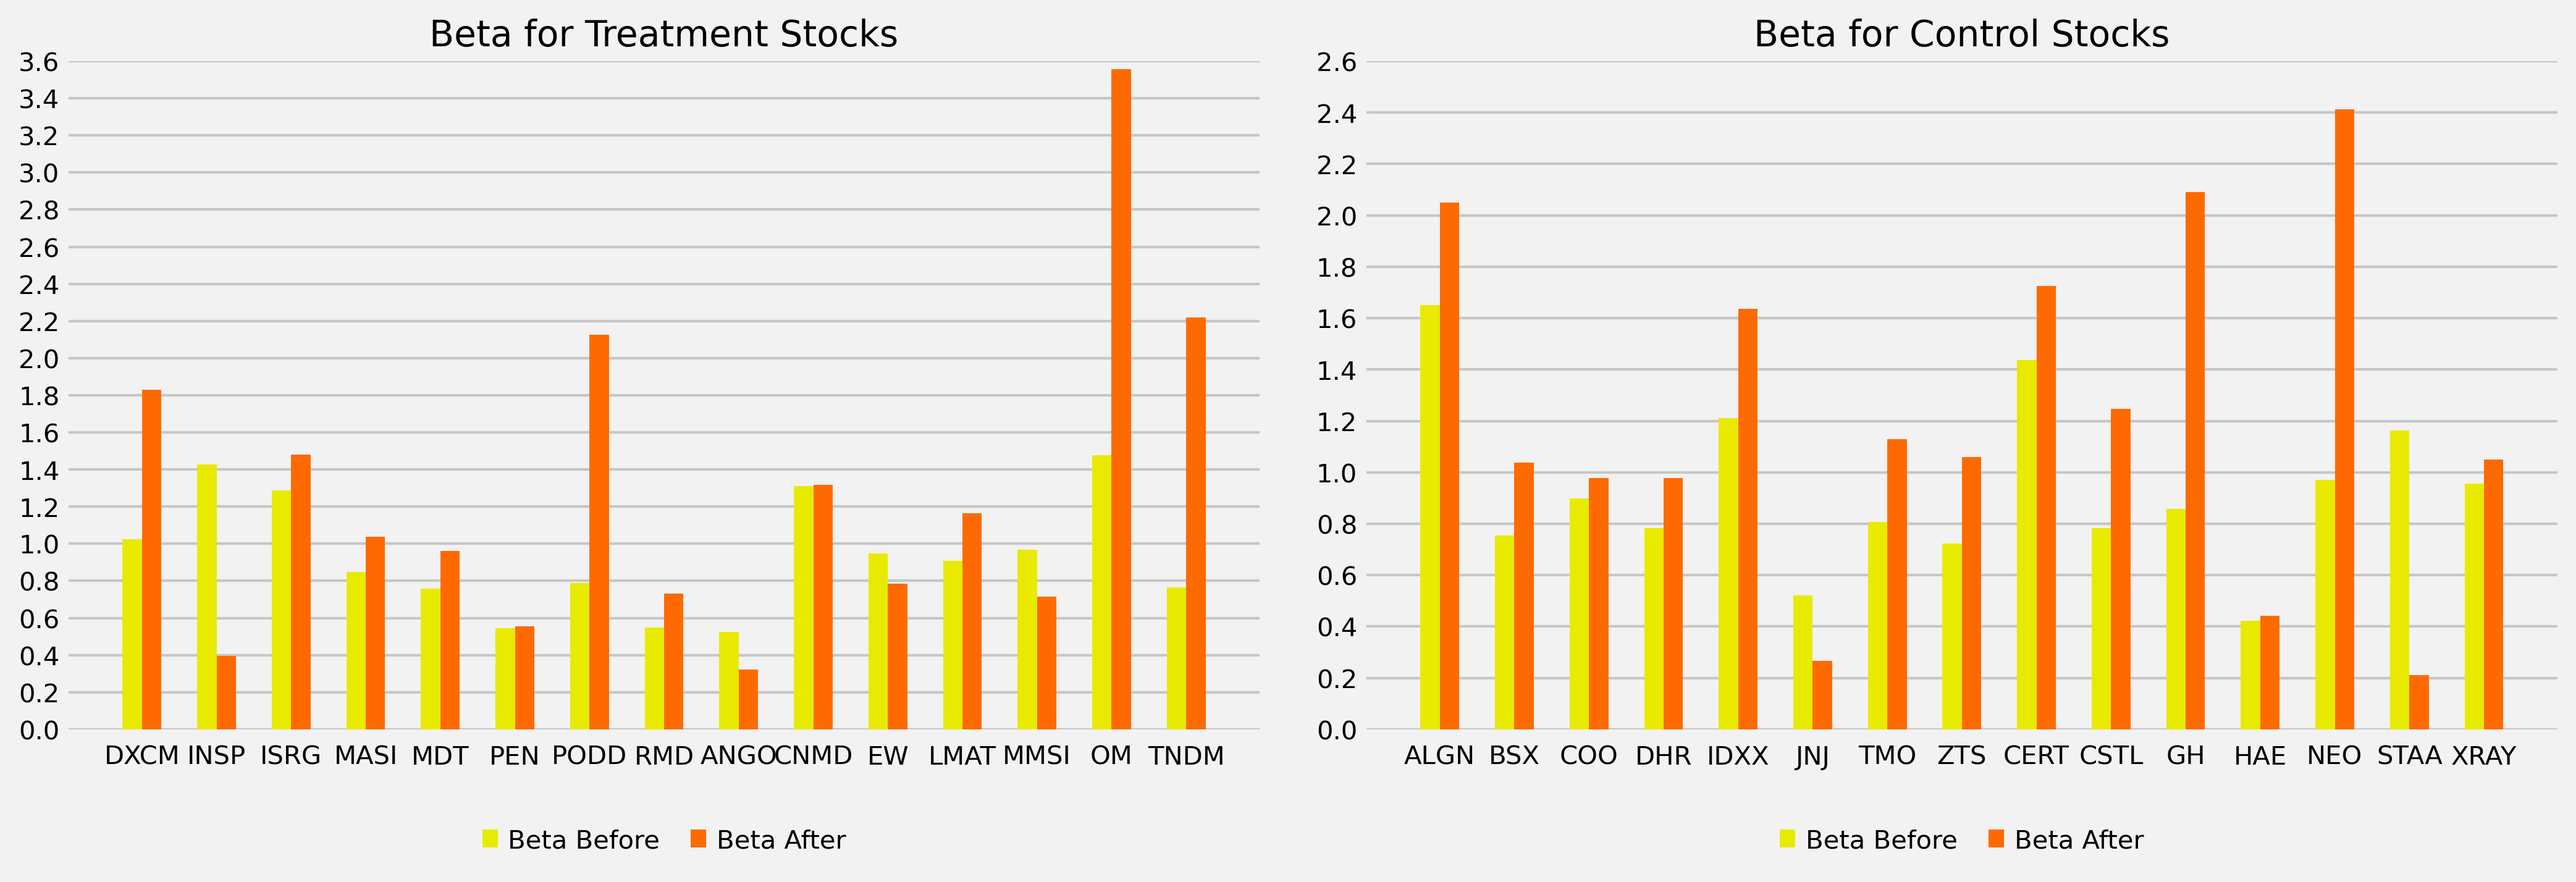
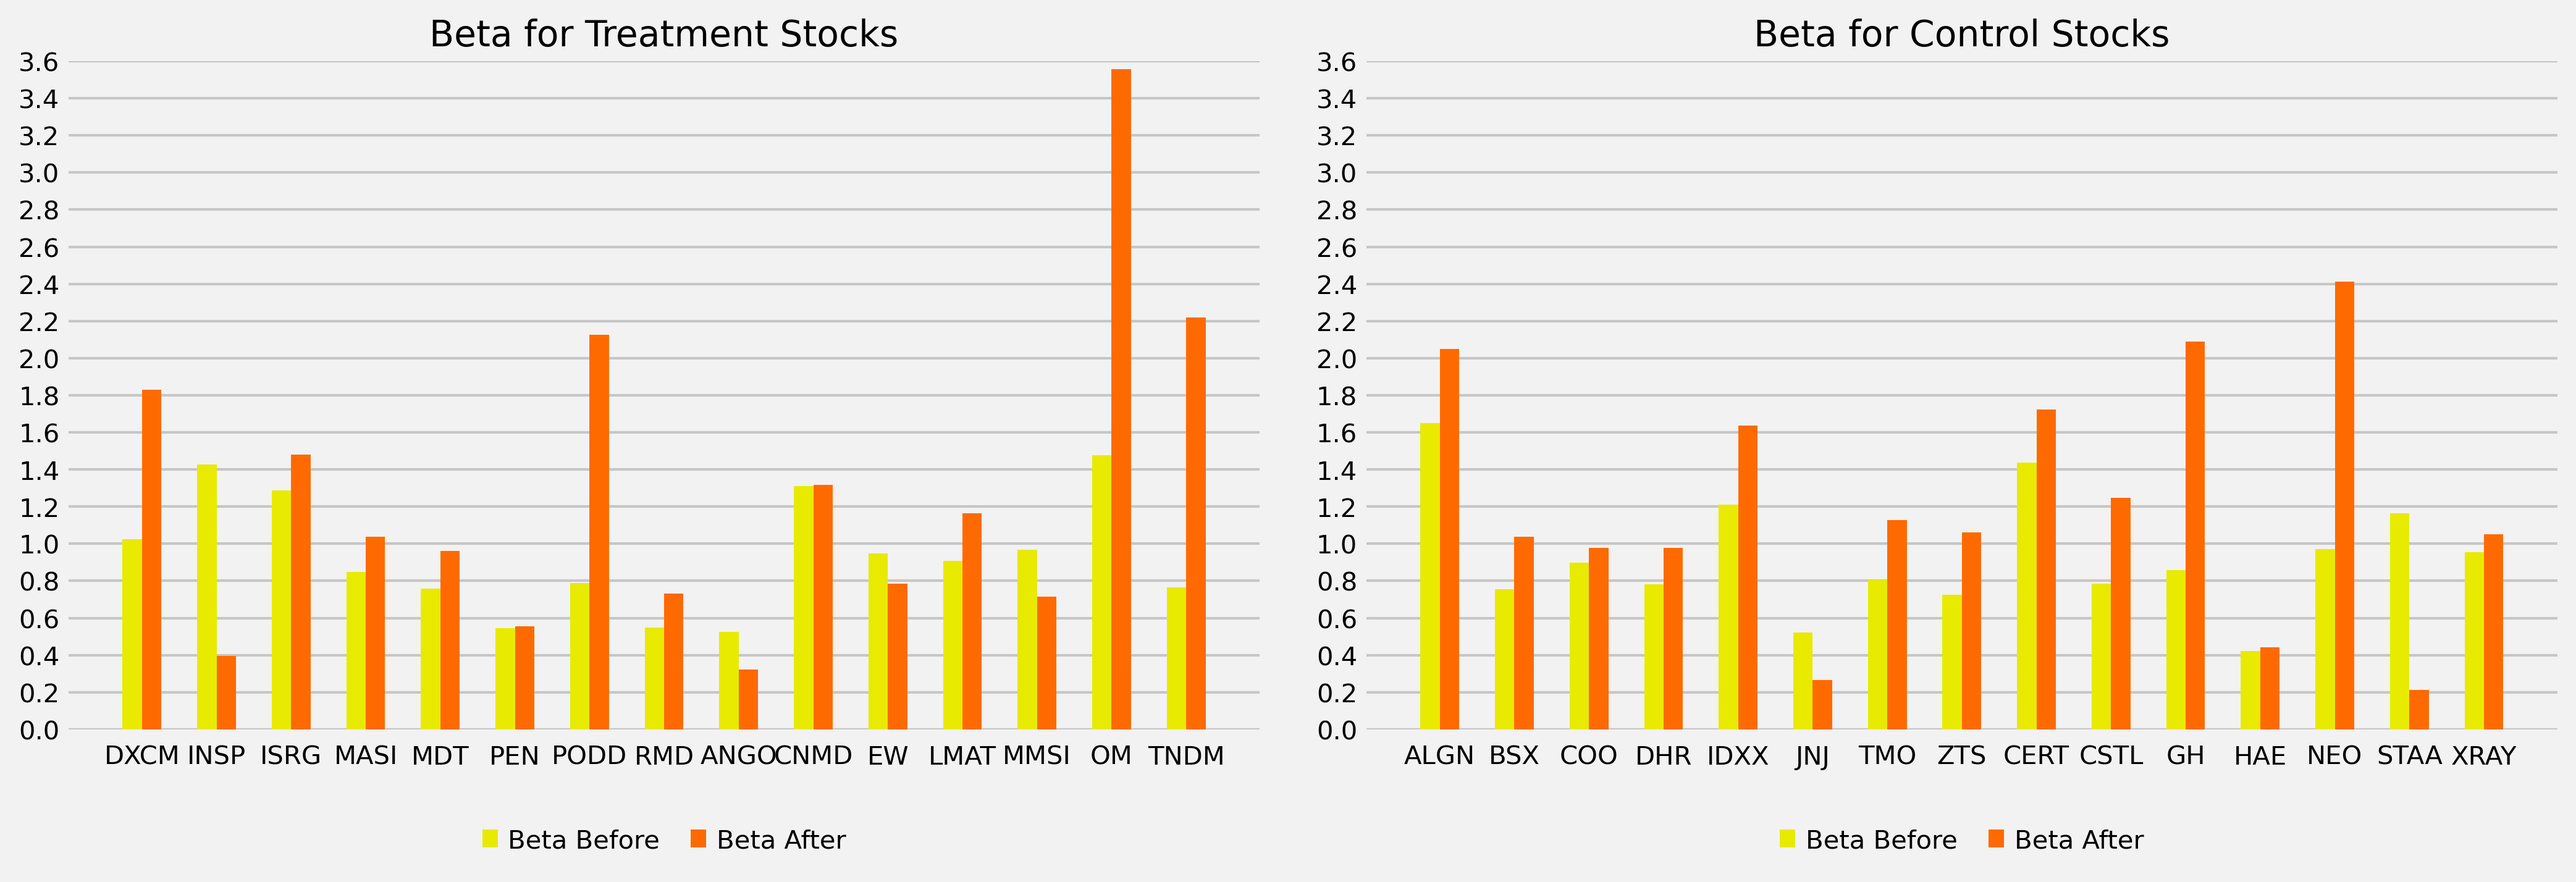
1

diff --git a/recreate_reference_figures.py b/recreate_reference_figures.py
@@ -114,7 +114,9 @@ def plot_figure_01() -> Path:
     return out_file
 
 
-def _plot_beta_panel(ax: plt.Axes, df: pd.DataFrame, title: str) -> None:
+def _plot_beta_panel(
+    ax: plt.Axes, df: pd.DataFrame, title: str, y_top_override: float | None = None
+) -> None:
     tickers = df["Ticker"].to_list()
     x = np.arange(len(tickers))
     width = 0.26
@@ -150,8 +152,11 @@ def _plot_beta_panel(ax: plt.Axes, df: pd.DataFrame, title: str) -> None:
     for spine in ax.spines.values():
         spine.set_visible(False)
 
-    max_beta = float(np.nanmax(np.concatenate([before_vals, after_vals])))
-    y_top = max(1.5, np.ceil(max_beta / 0.2) * 0.2)
+    if y_top_override is not None:
+        y_top = y_top_override
+    else:
+        max_beta = float(np.nanmax(np.concatenate([before_vals, after_vals])))
+        y_top = max(1.5, np.ceil(max_beta / 0.2) * 0.2)
     ax.set_ylim(0.0, y_top)
     ax.set_yticks(np.arange(0.0, y_top + 1e-9, 0.2))
     ax.tick_params(axis="x", length=0, labelsize=10, pad=6)
@@ -179,11 +184,22 @@ def plot_figure_02() -> Path:
     treatment = treatment.sort_values("_order")
     control = control.sort_values("_order")
 
+    all_beta = np.concatenate(
+        [
+            treatment["beta_before"].to_numpy(),
+            treatment["beta_after"].to_numpy(),
+            control["beta_before"].to_numpy(),
+            control["beta_after"].to_numpy(),
+        ]
+    )
+    max_beta_global = float(np.nanmax(all_beta))
+    y_top_unified = max(1.5, np.ceil(max_beta_global / 0.2) * 0.2)
+
     fig, axes = plt.subplots(1, 2, figsize=(14, 4.9), sharey=False)
     fig.patch.set_facecolor("#f2f2f2")
 
-    _plot_beta_panel(axes[0], treatment, "Beta for Treatment Stocks")
-    _plot_beta_panel(axes[1], control, "Beta for Control Stocks")
+    _plot_beta_panel(axes[0], treatment, "Beta for Treatment Stocks", y_top_unified)
+    _plot_beta_panel(axes[1], control, "Beta for Control Stocks", y_top_unified)
 
     OUT_DIR.mkdir(parents=True, exist_ok=True)
     out_file = OUT_DIR / "Figure_02_beta_before_after_by_stock.png"
